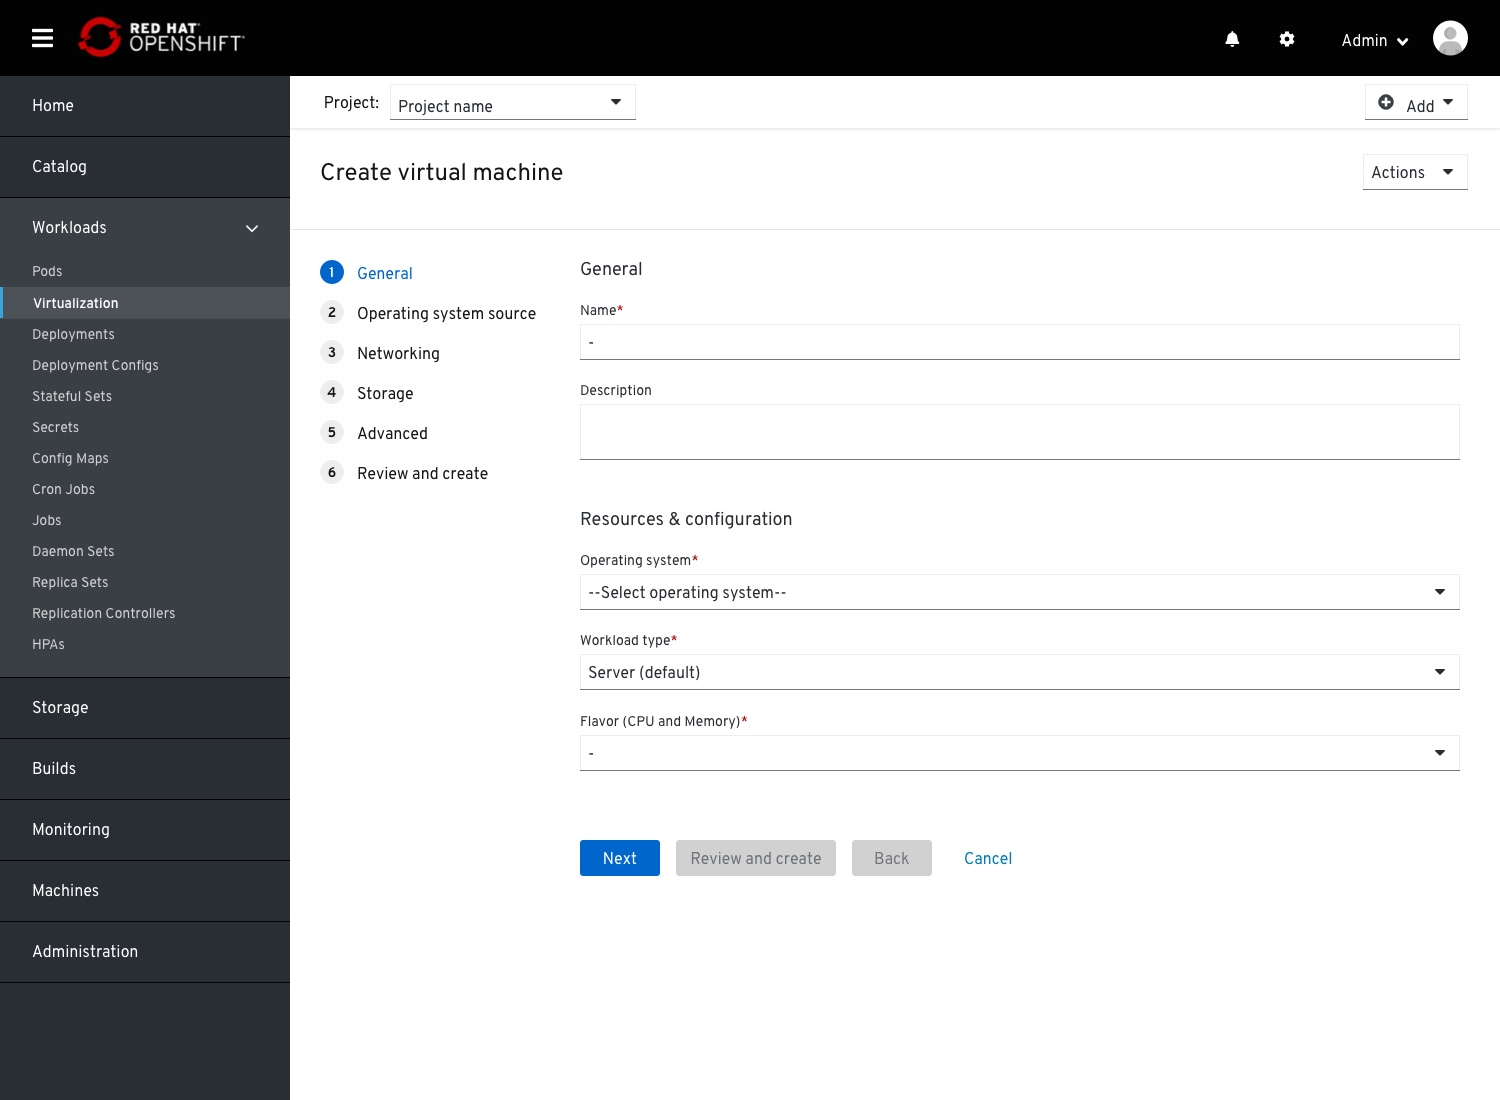
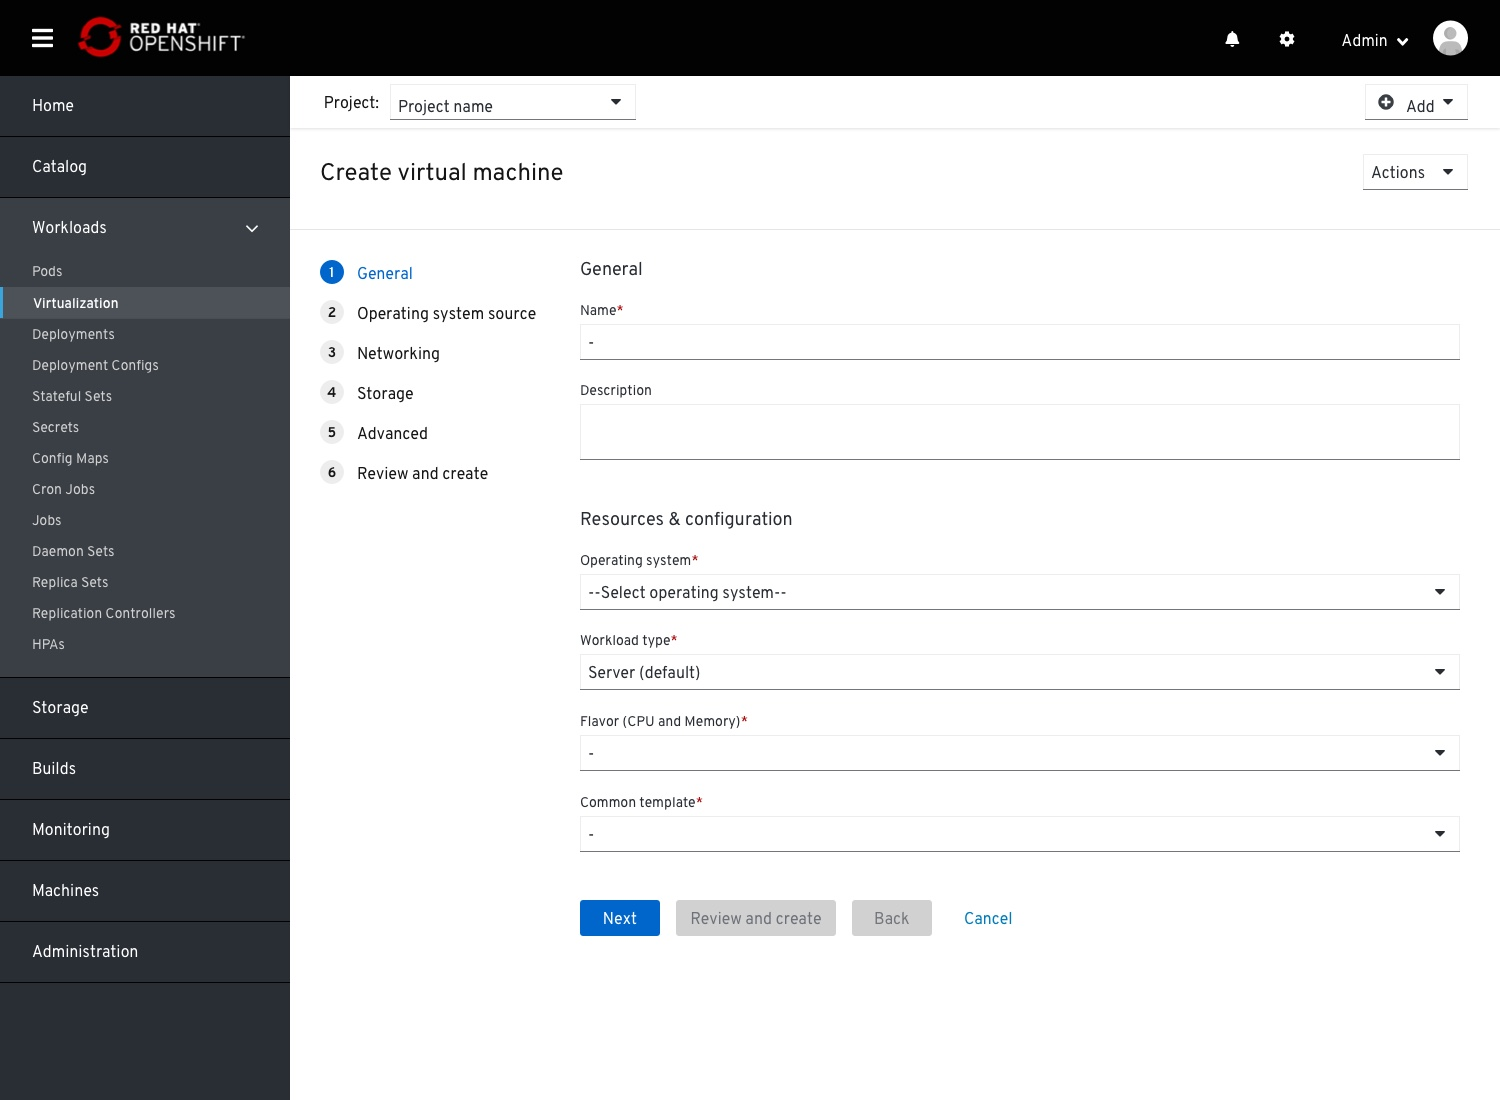
adding Common template field

Changed region(s): [[0.368, 0.7109, 0.6747, 0.8655]]

diff --git a/designs/virtualization/4.x/create-vm-dropdowns/create-vm-dropdowns.md b/designs/virtualization/4.x/create-vm-dropdowns/create-vm-dropdowns.md
@@ -24,6 +24,7 @@ Any OS image source related fields are mofed to the next step.
 - 'Operating system'
 - 'Workload type' (previously Workload profile)
 - 'Flavor (CPU and Memory)' (previously only 'flavor')
+- 'Common template'
 
 
 ## General step
@@ -38,6 +39,9 @@ Server is the default
 ![Create VM - General - flavor](img/1-1-2.jpg)
 Flavor options.
 Medium is the default
+
+On selecting all the above, the Common tempate field should be filtered to one option, therefor be locked.
+However, in some cases, there will be more than one option, so this field should be available. 
 
 
 ## Operating system source step (new)
